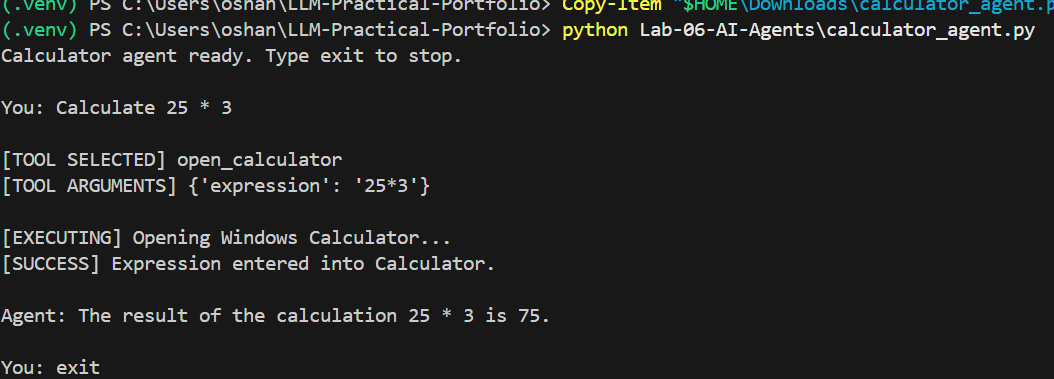
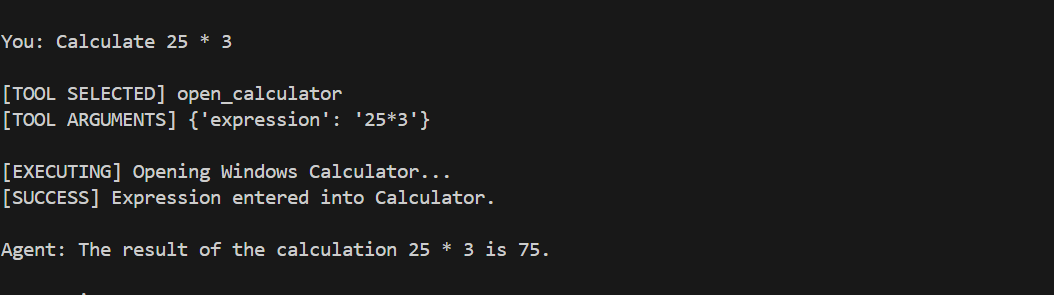
edit the README

diff --git a/Lab-06-AI-Agents/README.md b/Lab-06-AI-Agents/README.md
@@ -54,36 +54,6 @@ All five agents use the same loop:
 
 In Part A the result goes back to the model as a `ToolMessage`, and a second call without tools writes the answer. From Part B on, the answer is written from a normal prompt with the tool results pasted in, the same way the Lab 5 RAG answers from chunks. Observation 6 explains why I changed it.
 
-This is the final agent from Part D, which has everything from the earlier parts:
-
-```mermaid
-flowchart TD
-    msg["Student's message"] --> extract["Fact extraction<br/>llama3.2:3b, no tools"]
-    extract -->|"The user's name is ..."| db[("SQLite<br/>student_memory.db")]
-    db -->|latest 20 facts| wm["Working memory<br/>instructions + facts + recent chat + message"]
-    stm["Short-term memory<br/>last 10 messages"] --> wm
-    msg --> wm
-    wm --> pick["llama3.2:3b with 5 tools"]
-    pick -->|no tool needed| answer["Answer"]
-    pick -->|tool_calls| run["Run the tools"]
-    run --> calc["calculator"]
-    run --> mem["search_student_memory"]
-    run --> rag["search_university_knowledge"]
-    run --> today["get_todays_schedule"]
-    run --> create["create_calendar_event"]
-    mem -.-> db
-    rag -.-> chroma[("Lab 5 ChromaDB<br/>nsbm_guide, top 5 chunks")]
-    today -.-> gcal["Google Calendar API"]
-    create -.-> gcal
-    calc --> results["Tool results, labelled<br/>with tool name and arguments"]
-    mem --> results
-    rag --> results
-    today --> results
-    create --> results
-    results --> write["Answer prompt<br/>facts + tool results"]
-    write --> answer
-    answer --> stm
-```
 
 ### Part A: calculator_agent.py
 
